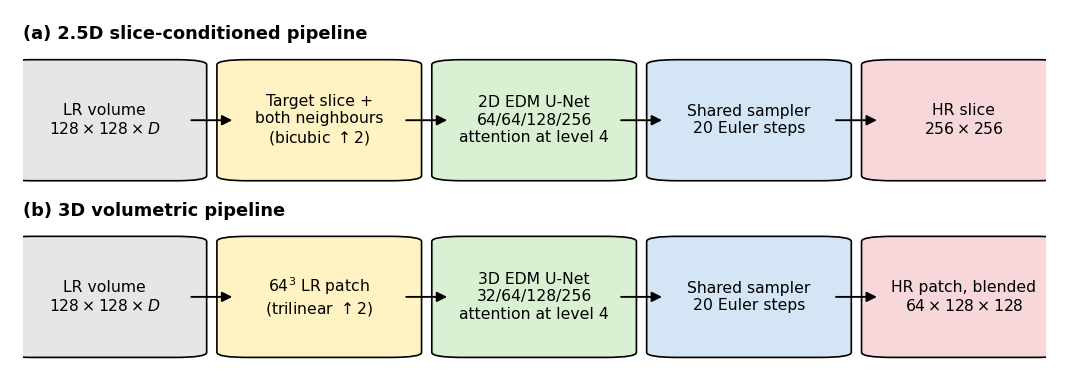
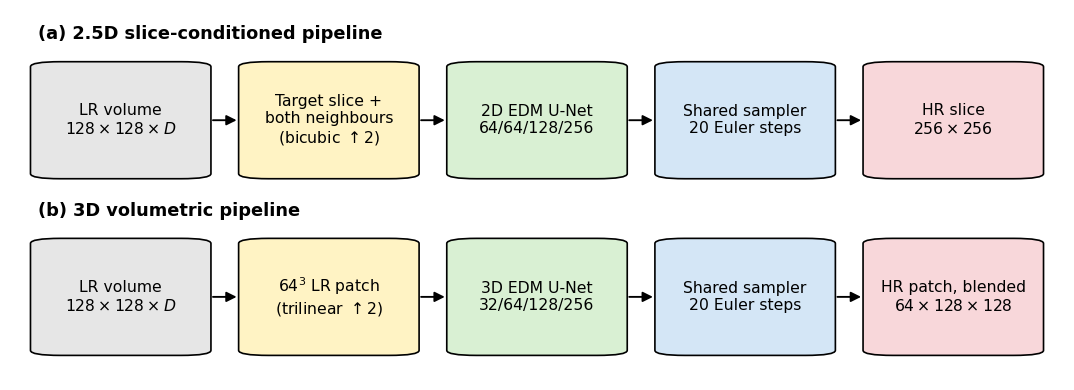
Method-overview figure: keep the boxes inside the frame and drop the attention line (#8)

Changed region(s): [[0.0, 0.0615, 0.9832, 0.4923], [0.0, 0.5231, 0.9832, 0.9231]]

diff --git a/scripts/make_curves_and_overview.py b/scripts/make_curves_and_overview.py
@@ -92,8 +92,11 @@ def fig_curves(out_dir: Path, png_dir: Path) -> None:
     print("wrote", out_dir / "fig_training_curves.pdf")
 
 
+PAD = 0.008  # FancyBboxPatch draws the box this far outside (x, y, w, h)
+
+
 def box(ax, x, y, w, h, text, fc):
-    ax.add_patch(FancyBboxPatch((x, y), w, h, boxstyle="round,pad=0.02,rounding_size=0.03", fc=fc, ec="black", lw=0.8))
+    ax.add_patch(FancyBboxPatch((x, y), w, h, boxstyle=f"round,pad={PAD},rounding_size=0.03", fc=fc, ec="black", lw=0.8))
     ax.text(x + w / 2, y + h / 2, text, ha="center", va="center", fontsize=7.5)
 
 
@@ -107,30 +110,31 @@ def fig_overview(out_dir: Path, png_dir: Path) -> None:
         ("(a) 2.5D slice-conditioned pipeline", [
             ("LR volume\n$128\\times128\\times D$", "#e6e6e6"),
             ("Target slice +\nboth neighbours\n(bicubic $\\uparrow 2$)", "#fff3c4"),
-            ("2D EDM U-Net\n64/64/128/256\nattention at level 4", "#d9f0d3"),
+            ("2D EDM U-Net\n64/64/128/256", "#d9f0d3"),
             ("Shared sampler\n20 Euler steps", "#d4e6f6"),
             ("HR slice\n$256\\times256$", "#f8d7da"),
         ]),
         ("(b) 3D volumetric pipeline", [
             ("LR volume\n$128\\times128\\times D$", "#e6e6e6"),
             ("$64^3$ LR patch\n(trilinear $\\uparrow 2$)", "#fff3c4"),
-            ("3D EDM U-Net\n32/64/128/256\nattention at level 4", "#d9f0d3"),
+            ("3D EDM U-Net\n32/64/128/256", "#d9f0d3"),
             ("Shared sampler\n20 Euler steps", "#d4e6f6"),
             ("HR patch, blended\n$64\\times128\\times128$", "#f8d7da"),
         ]),
     ]
     for ax, (title, boxes) in zip(axes, rows):
-        ax.set_xlim(0, 1)
+        ax.set_xlim(-2 * PAD, 1 + 2 * PAD)
         ax.set_ylim(0, 1)
         ax.axis("off")
         ax.text(0.0, 0.93, title, fontsize=8.5, fontweight="bold", va="center")
         n = len(boxes)
-        w, gap = 0.16, (1 - 0.16 * n) / (n - 1)
+        w = 0.165
+        gap = (1 - w * n) / (n - 1)
         for i, (text, fc) in enumerate(boxes):
             x = i * (w + gap)
             box(ax, x, 0.08, w, 0.68, text, fc)
             if i < n - 1:
-                arrow(ax, x + w + 0.005, x + w + gap - 0.005, 0.42)
+                arrow(ax, x + w + PAD + 0.002, x + w + gap - PAD - 0.002, 0.42)
     fig.tight_layout(h_pad=0.4)
     fig.savefig(out_dir / "fig_method_overview.pdf")
     fig.savefig(png_dir / "fig_method_overview.png", dpi=150)
